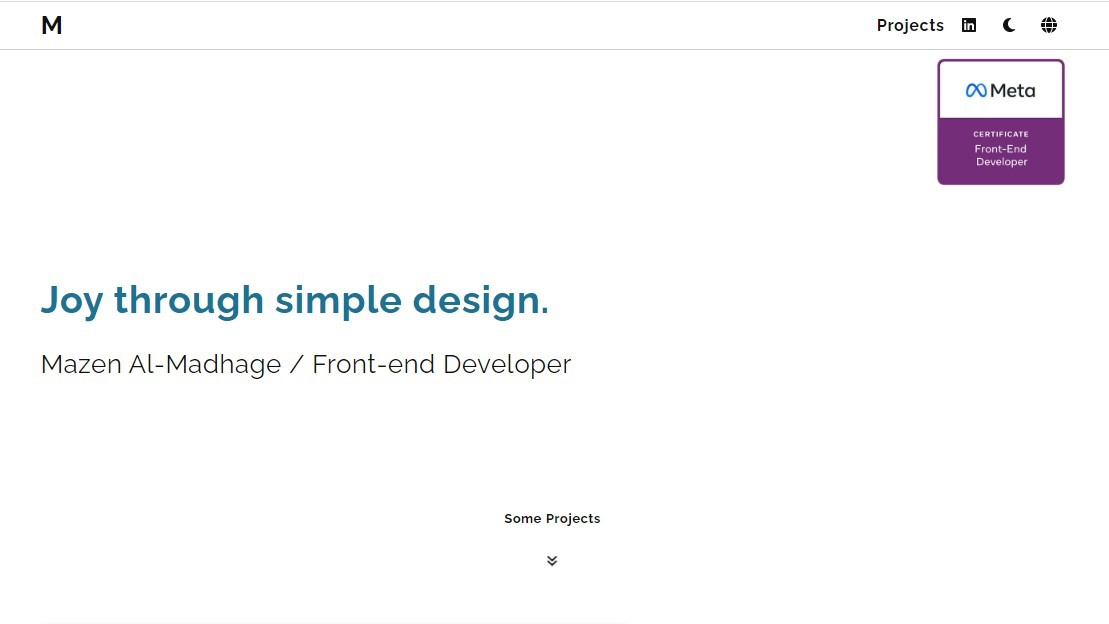
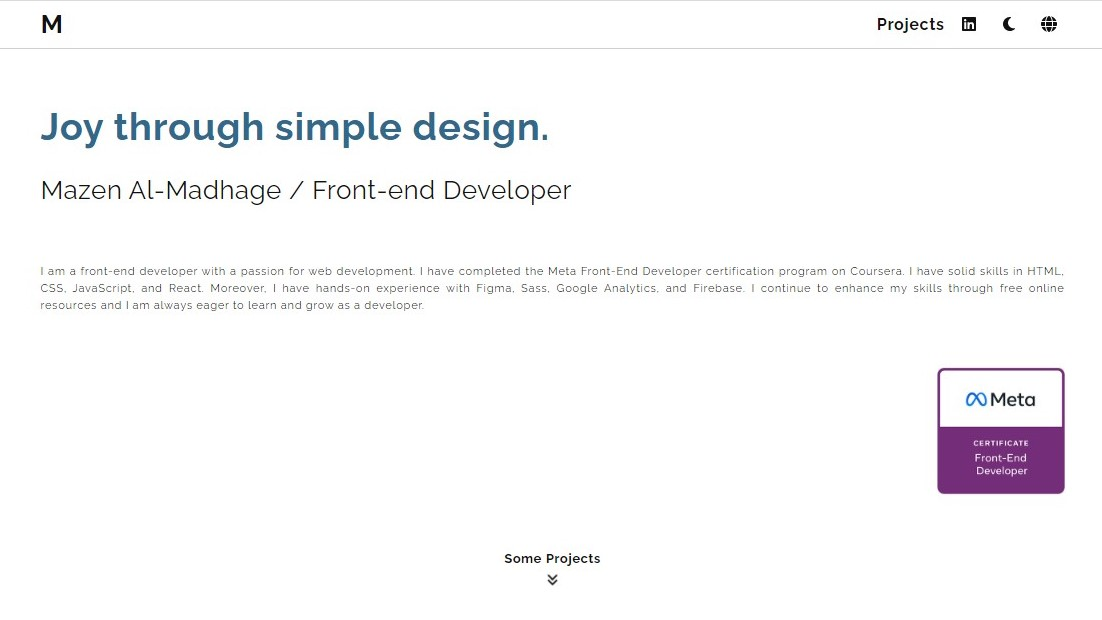
fixing bugs

diff --git a/src/pages/home/Landing.jsx b/src/pages/home/Landing.jsx
@@ -16,9 +16,9 @@ const Landing = ()=> {
         </header>
         <p className={LandingCSS.about}>
             {lang === "en" ? 
-                "I am a front-end developer with a passion for web development. I have solid skills in HTML, CSS, JavaScript, and React, and have completed the Meta Front-End Developer certification program on Coursera. I continue to enhance my skills through free online resources and hands-on experience with Figma, Sass, Google Analytics, and Firebase. I am always eager to learn and grow as a developer."
+                "I am a front-end developer with a passion for web development. I have completed the Meta Front-End Developer certification program on Coursera. I have solid skills in HTML, CSS, JavaScript, and React. Moreover, I have hands-on experience with Figma, Sass, Google Analytics, and Firebase. I continue to enhance my skills through free online resources and I am always eager to learn and grow as a developer."
                 :
-                "Я являюсь фронтенд-разработчиком с увлечением к веб-разработке. У меня крепкие навыки в HTML, CSS, JavaScript и React, а также я прошел программу сертификации Meta Front-End Developer на Coursera. Я продолжаю улучшать свои навыки через бесплатные онлайн-ресурсы и практический опыт работы с Figma, Sass, Google Analytics и Firebase. Я всегда готов учиться и расти как разработчик."
+                "Я являюсь фронтенд-разработчиком. Прошел программу сертификации Meta Front-End Developer на Coursera. Обладаю навыками работы с HTML, CSS, JavaScript и React. Более того, имею практический опыт работы с Figma, Sass, Google Analytics и Firebase. В настоящее время я продолжаю улучшать свои знания при помощи открытых онлайн-ресурсов.  Готов учиться и расти как разработчик."
             }
         </p>
 

diff --git a/src/components/ProjectCard.module.css b/src/components/ProjectCard.module.css
@@ -15,12 +15,18 @@
 
 .images {
     position: relative;
+    height: fit-content;
+    border-radius: 8px;
+    box-shadow: 0px 4px 11px 0px var(--shadow-color);
+    overflow: hidden;
+}
+
+.images br {
+    display: none !important;
 }
 
 .images > img {
     width: 100%;
-    border-radius: 8px;
-    box-shadow: 0px 4px 11px 0px var(--shadow-color);
 }
 
 .info {
